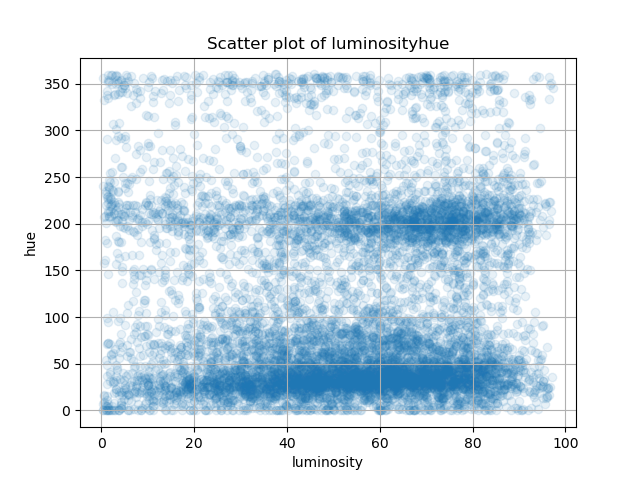
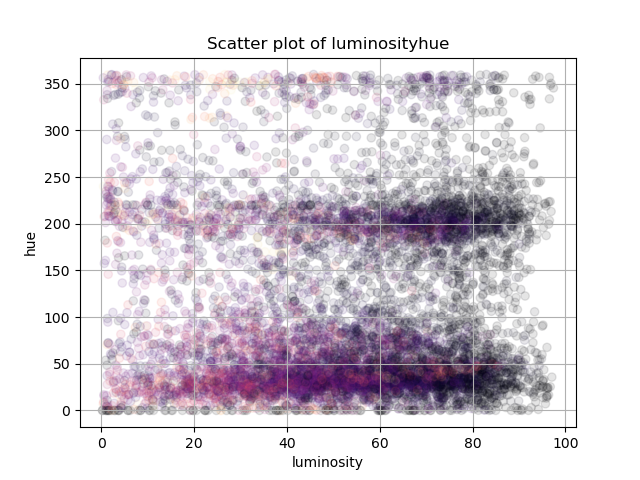
added more plots

Changed region(s): [[0.1562, 0.125, 0.875, 0.875]]

diff --git a/analysis/save_hist.py b/analysis/save_hist.py
@@ -9,6 +9,9 @@ import matplotlib.pyplot as plt
 import numpy as np
 # importing from another folder
 import sys
+from matplotlib.patches import Rectangle
+import pickle
+import json
 
 Repo_path='/Users/jhash/Documents/GitHub/facemap2/'
 #Repo_path='/Users/michaelmandiberg/Documents/GitHub/facemap/'
@@ -48,6 +51,31 @@ engine = create_engine("mysql+pymysql://{user}:{pw}@{host}/{db}".format(host=db[
 
 session = scoped_session(sessionmaker(bind=engine))
 num_threads = 1
+folder_path = os.path.join(os.getcwd(), 'analysis/plots')
+Base = declarative_base()
+
+class SegmentOct20(Base):
+    __tablename__ = 'SegmentOct20'
+    seg_image_id=Column(Integer,primary_key=True, autoincrement=True)
+    image_id = Column(Integer)
+    site_name_id = Column(Integer)
+    site_image_id = Column(String(50),nullable=False)
+    contentUrl = Column(String(300), nullable=False)
+    imagename = Column(String(200))
+    age_id = Column(Integer)
+    age_detail_id = Column(Integer)
+    gender_id = Column(Integer)
+    location_id = Column(Integer)
+    face_x = Column(DECIMAL(6, 3))
+    face_y = Column(DECIMAL(6, 3))
+    face_z = Column(DECIMAL(6, 3))
+    mouth_gap = Column(DECIMAL(6, 3))
+    face_landmarks = Column(BLOB)
+    bbox = Column(JSON)
+    face_encodings = Column(BLOB)
+    face_encodings68 = Column(BLOB)
+    body_landmarks = Column(BLOB)
+
 
 
 # Define the function for generating imagename
@@ -74,19 +102,72 @@ def create_BG_df():
         if row[4] >0:
             hue = row[4]
             lum = row[5]
+            sat = row[6]
         else:
             hue = row[1]
             lum = row[2]
+            sat = row[3]
         #print(hue,lum)
-        results.append({"image_id": image_id, "hue": hue, "luminosity": lum})
+        results.append({"image_id": image_id, "hue": hue, "luminosity": lum,"sat":sat})
     
     df = pd.DataFrame(results)
     return df
 
-def save_hist(df,column):
-    folder_path = os.path.join(os.getcwd(), 'analysis/plots')
-    file_path= os .path.join(folder_path,'hist_'+column+'.png')
+def create_segment_df():
+    # Define the select statement to fetch all columns from the table
+    segment = SegmentOct20.__table__
 
+    # Construct the select query
+    #query = select([images_bg]) ## this DOESNT work on windows somehow
+    query = select(segment)
+
+    # Optionally limit the number of rows fetched
+    if LIMIT:
+        query = query.limit(LIMIT)
+
+    # Execute the query and fetch all results
+    result = session.execute(query).fetchall()
+
+    results=[]
+    counter = 0
+
+    for counter,row in enumerate(result):
+        if counter%1000==0:print(counter,"rows made")
+        image_id =row[0]
+        sitename_id=row[2]
+        face_x,face_y,face_z=row[10],row[11],row[12]
+        mouth_gap=row[13]
+        bbox=row[15]
+        if type(bbox)==str:
+            bbox=json.loads(bbox)
+             
+        #print(type(bbox),bbox)
+        face_encodings=pickle.loads(row[17])
+        results.append({"image_id": image_id, "sitename_id": sitename_id, "face_x": face_x,"face_y":face_y,"face_z":face_z,"mouth_gap":mouth_gap,"bbox":bbox,"face_encodings":face_encodings})
+    
+    df = pd.DataFrame(results)
+    return df
+
+def plot_bbox(df):
+    file_path= os .path.join(folder_path,'bbox.png')
+
+    fig, ax = plt.subplots()
+    ax.plot([0, 0],[0, 0],color="white")
+
+    for bbox in df['bbox']:
+        width,height=bbox['right']-bbox['left'],bbox['top']-bbox['bottom']
+        ax.add_patch(Rectangle((bbox['left'],bbox['bottom'] ), width, height,alpha=0.01))
+    plt.xlabel('X')
+    plt.ylabel('Y')
+    plt.title('bbox plot')
+ 
+    plt.savefig(file_path)
+    plt.close()
+    return
+
+def save_hist(df,column):
+    file_path= os .path.join(folder_path,'hist_'+column+'.png')
+    if column=="sat":df[column]*=1000
     # Plot histogram
     bin_edges=np.arange(min(df[column])//1,max(df[column])//1 + 1)
     plt.hist(df[column], bins=bin_edges, edgecolor='black')
@@ -100,15 +181,15 @@ def save_hist(df,column):
     plt.close()
     return 
 
-def save_scatter(df,column1,column2):
+def save_scatter(df,column1,column2,column3):
     folder_path = os.path.join(os.getcwd(), 'analysis/plots')
     file_path= os.path.join(folder_path,'Scatter_'+column1+column2+'.png')
 
     # Plot histogram
-    plt.scatter(df[column1],df[column2],alpha=0.1)
+    plt.scatter(df[column1],df[column2],c=df[column3],alpha=0.1,cmap='hsv')
     plt.xlabel(column1)
     plt.ylabel(column2)
-    plt.title('Scatter plot of '+column1+column2)
+    plt.title('Scatter plot of '+column1+column2 +"with color from"+column3+"with dtapoints" +str(len(df[column1])))
     plt.grid(True)
 
     # Save the histogram as a PNG file
@@ -118,19 +199,21 @@ def save_scatter(df,column1,column2):
     return
 
 
-try:
-    df=create_BG_df()
-    print(f"dataframe created.")
-    print(df)
-    save_hist(df,"luminosity")
-    print("histogram saved")
-    save_scatter(df,"luminosity","hue")
-    print("scatter plot created")
-    
+#df=create_BG_df()
+df=create_segment_df()
+print(f"dataframe created.")
+print(df)
+#save_hist(df,"luminosity")
+#save_hist(df,"hue")
+#save_hist(df,"sat")
+#print("histogram saved")
+#save_scatter(df,"luminosity","sat","hue")
+#print("scatter plot created")
+plot_bbox(df)
+print("bbox plot created")
+   
+#print(f"An error occurred: {e}")
 
-except Exception as e:
-    print(f"An error occurred: {e}")
-
-finally:
+#finally:
     # Close the session
-    session.close()
+session.close()
